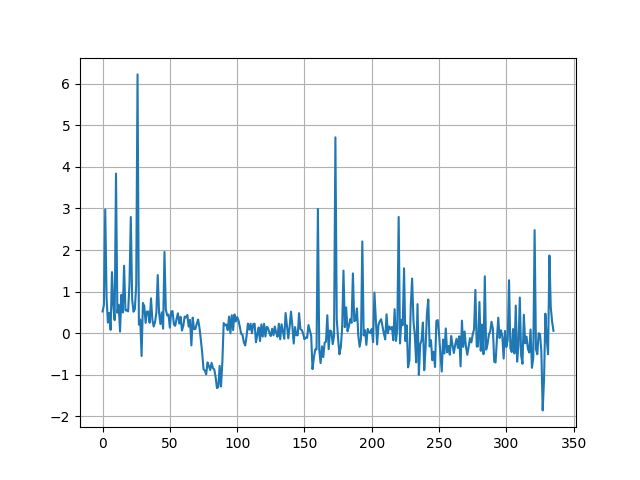
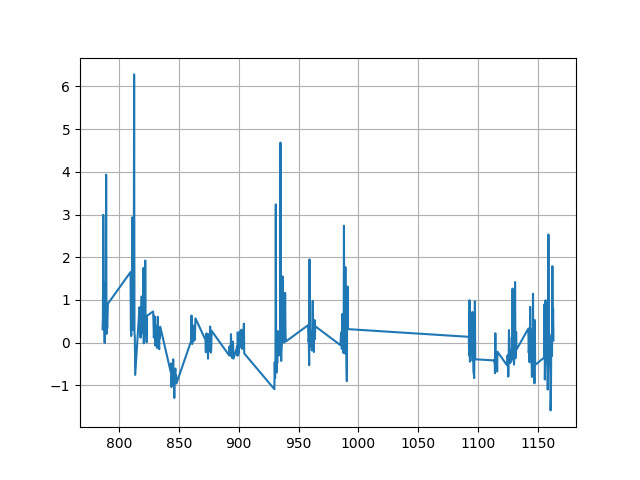
Backup

diff --git a/src/inversion.py b/src/inversion.py
@@ -144,12 +144,18 @@ def __retrieve_step(lm_param, loop_count):#, chi2, residuum):
     
     rms = np.sqrt(np.mean(np.array(aux.RESIDUUM[-1])**2))
     log.write("# Root-Mean-Squared Error = {}".format(rms))
-    plt.plot(aux.RESIDUUM[-1])
+    plt.plot(aux.WAVENUMBER_FTIR, aux.RESIDUUM[-1])
     plt.grid(True)
     plt.savefig("{}/residuum_{}.png".format(inp.PATH, loop_count))
     plt.close()
     plt.clf()
-
+    plt.plot(aux.WAVENUMBER_FTIR, aux.RADIANCE_FTIR)
+    plt.plot(aux.WAVENUMBER_FTIR, aux.RADIANCE_LBLDIS[0][-1])
+    plt.grid(True)
+    plt.savefig("{}/radiance_{}.png".format(inp.PATH, loop_count))
+    plt.close()
+    plt.clf()
+    exit(-1)
     #if loop_count > 0:
     #    F_2_x_n = np.linalg.norm(aux.RADIANCE_LBLDIS[0][-2])**2
     #    F_2_x_n1 = np.linalg.norm(aux.RADIANCE_LBLDIS[0][-1])**2
